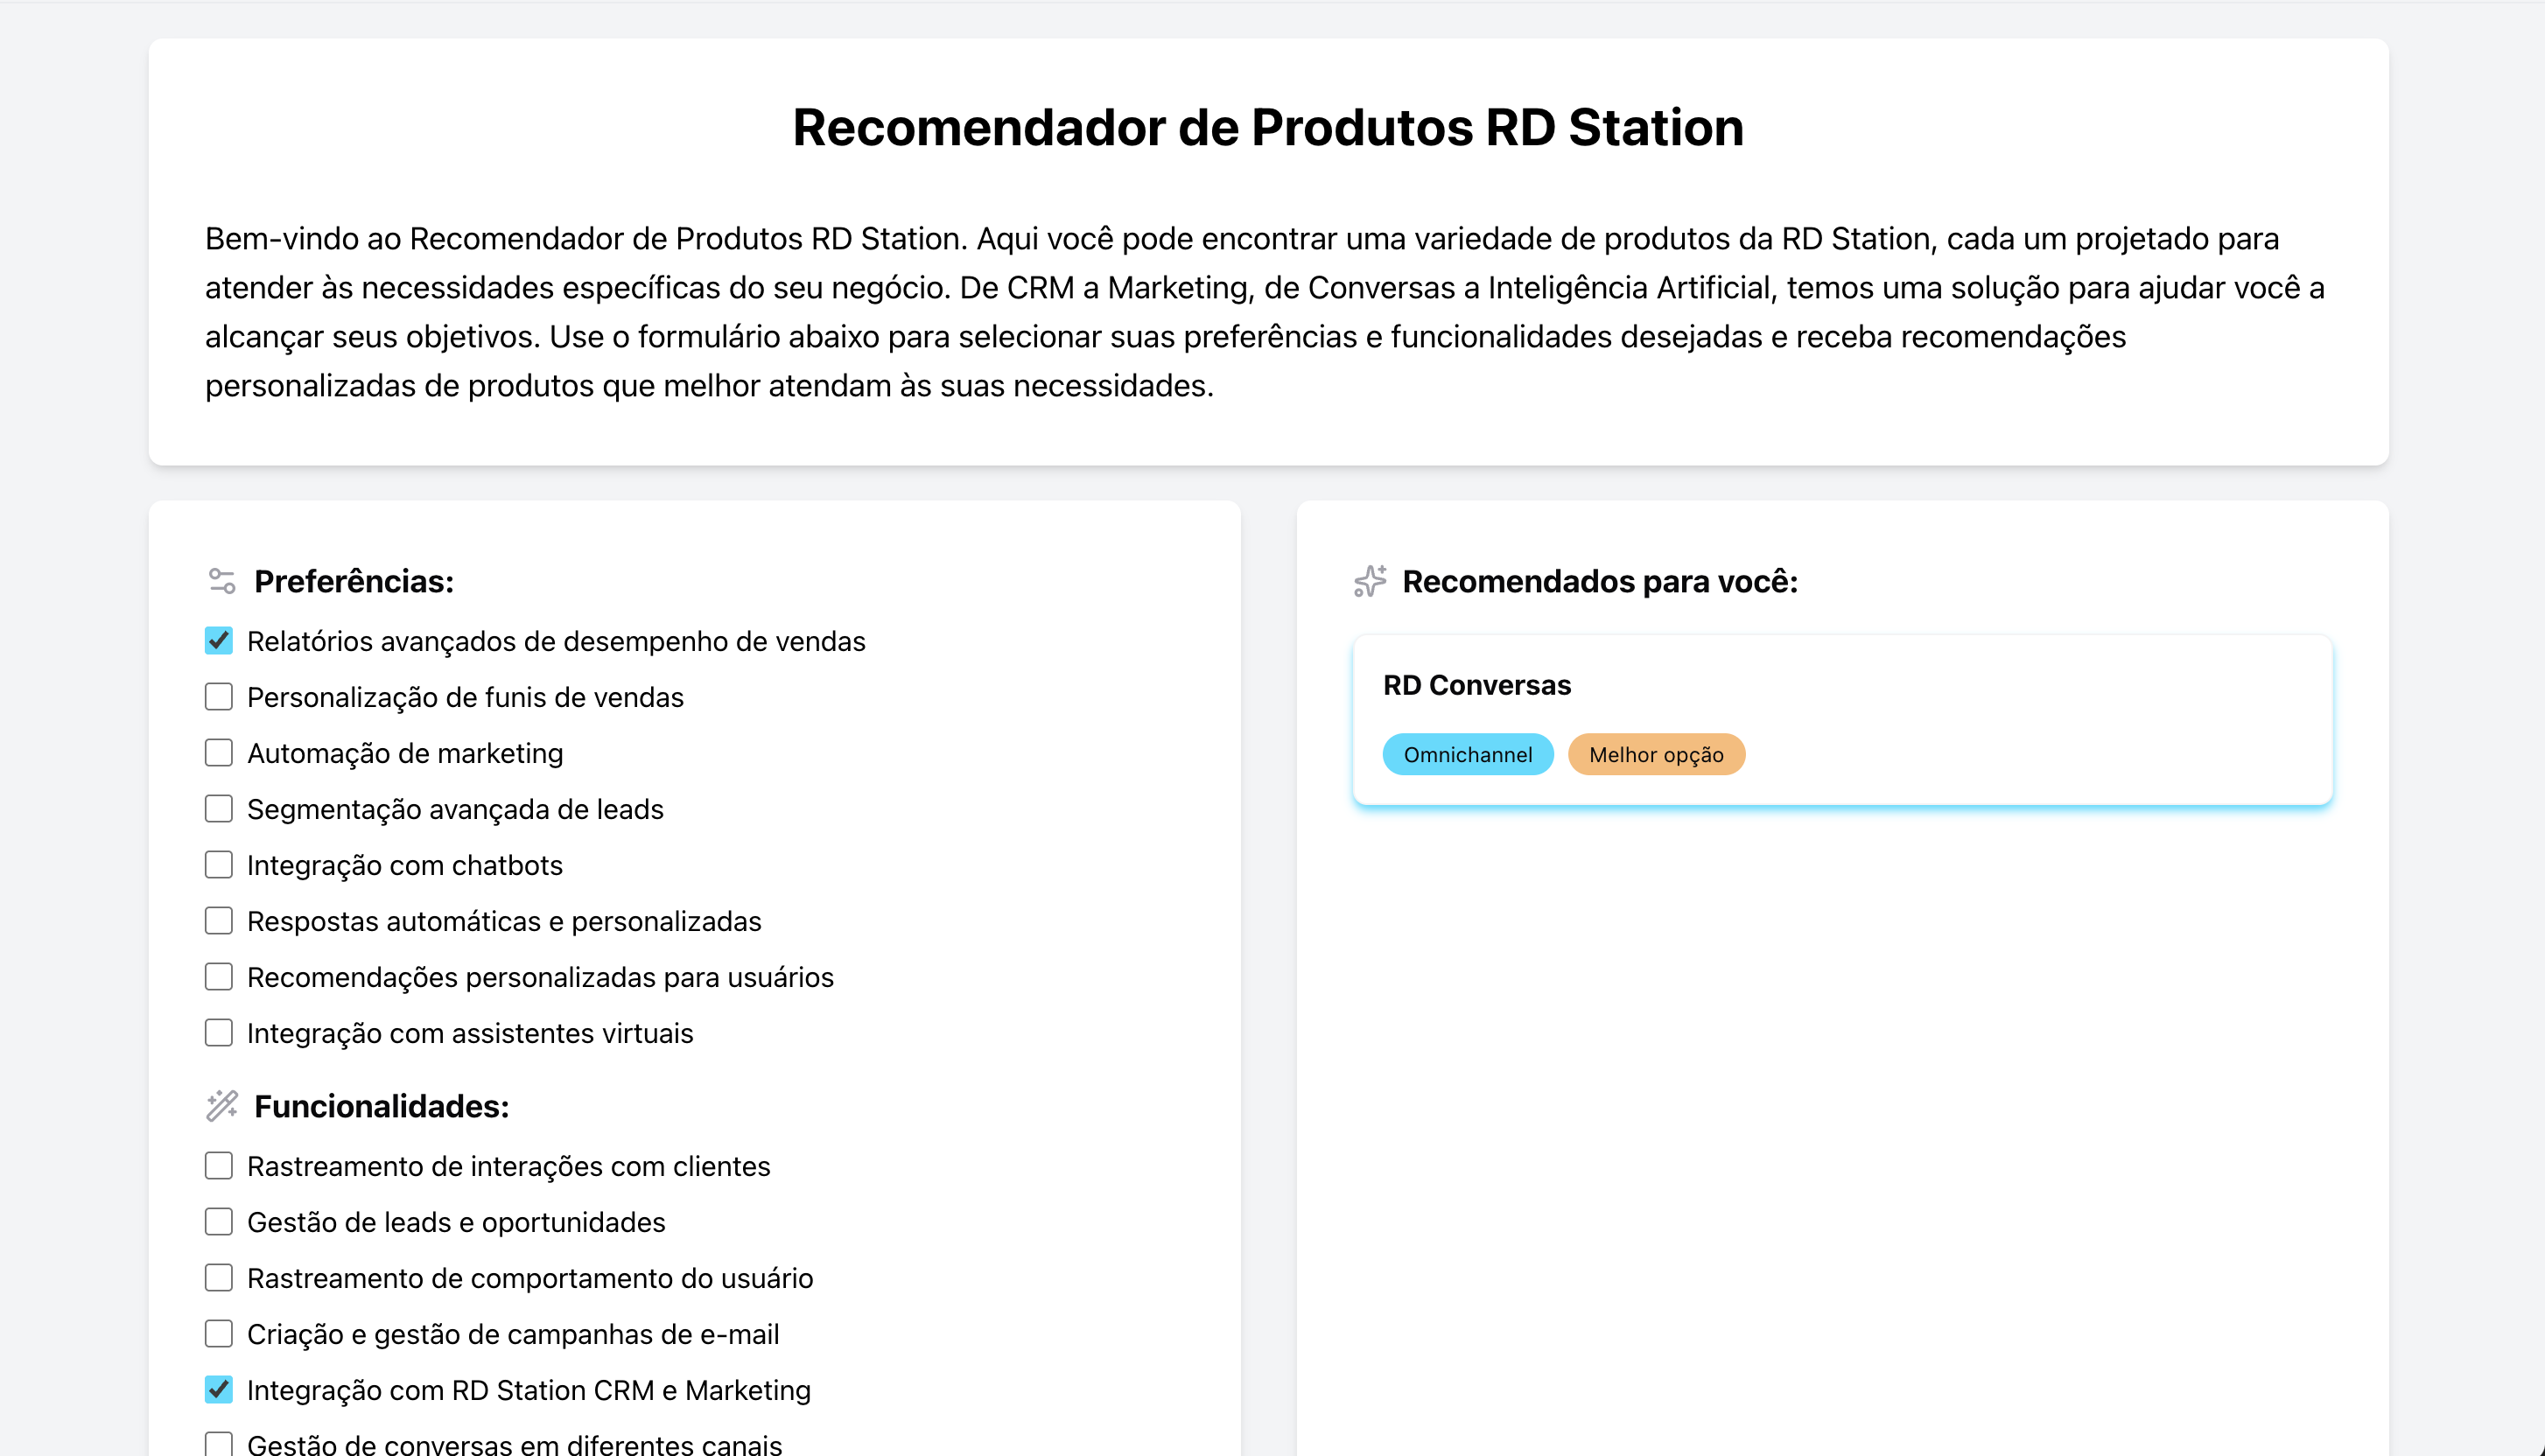
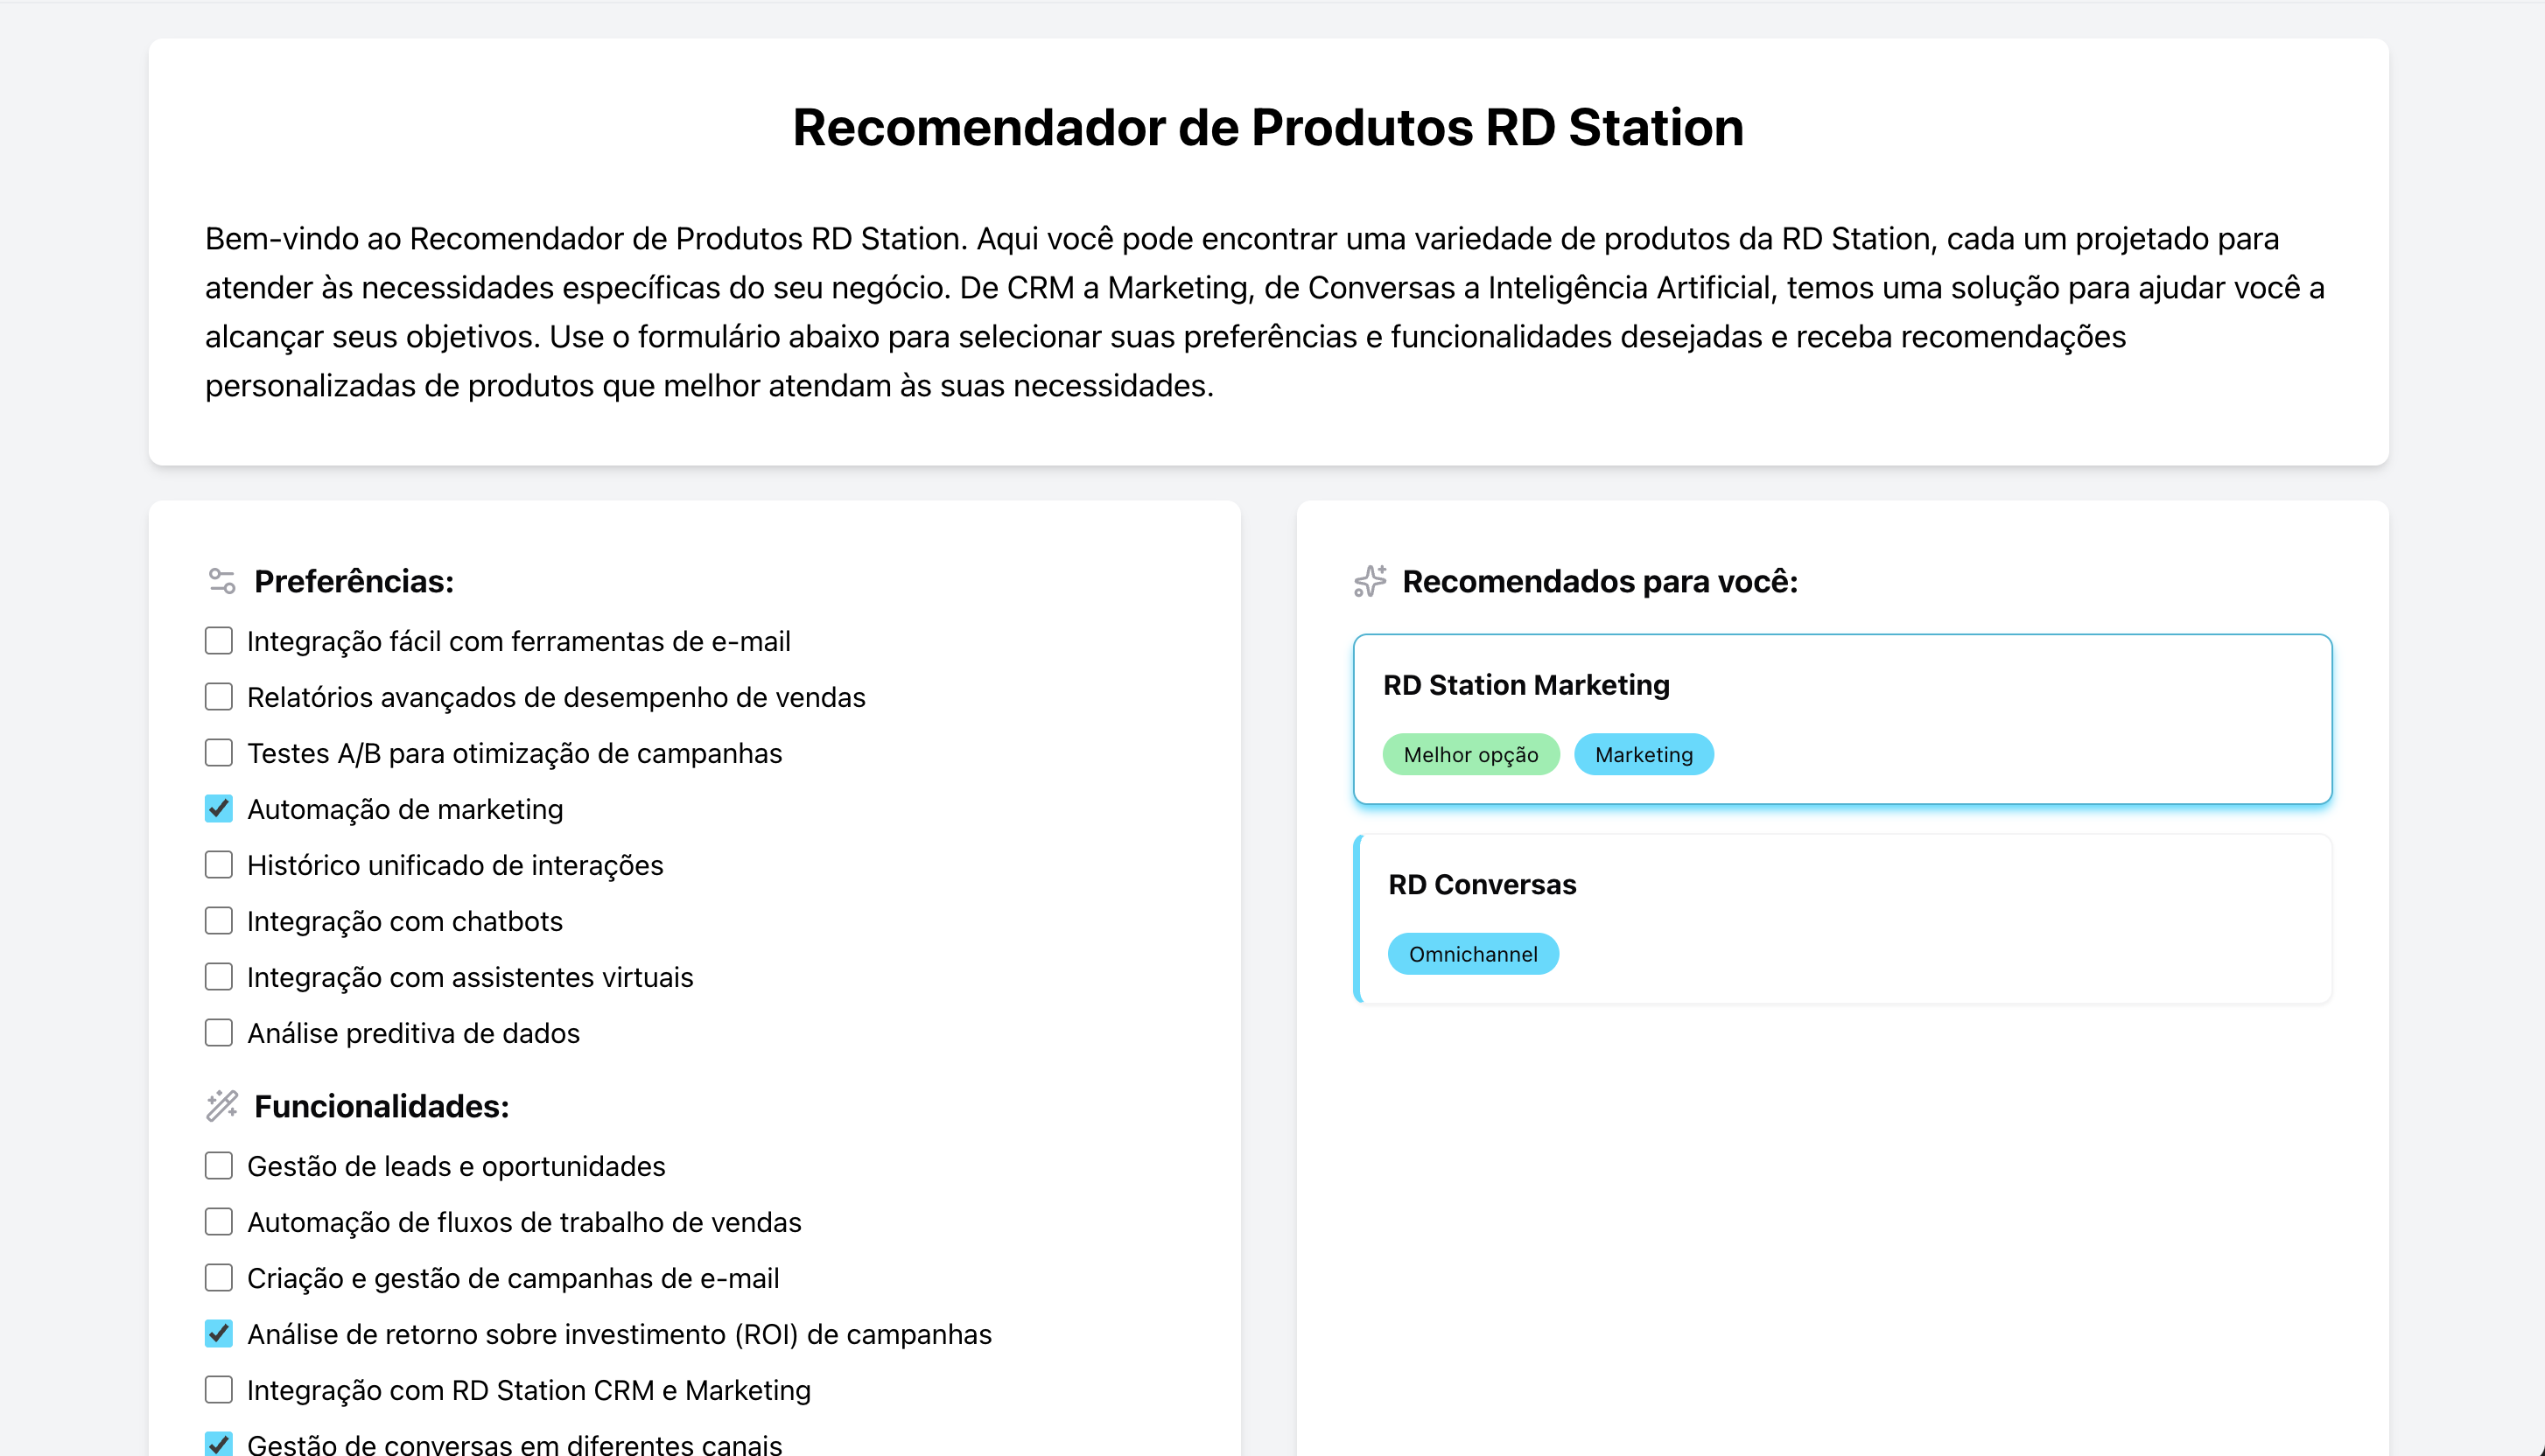
fix: ui highlighted recommendation card

diff --git a/frontend/src/components/RecommendationList/RecommendationItem.js b/frontend/src/components/RecommendationList/RecommendationItem.js
@@ -1,24 +1,33 @@
 import React from 'react';
+import { tv } from 'tailwind-variants';
 
-export function RecommendationItem({ recommendation, highlighted = false }) {
+const li = tv({
+  base: 'flex flex-col gap-4 bg-white rounded-lg p-4 border border-zinc-100 shadow-sm',
+  variants: {
+    color: {
+      default: 'border-l-4 border-l-primary',
+      highlighted: 'border-cyan-500 shadow-md shadow-primary',
+    },
+  },
+});
+
+export function RecommendationItem({ recommendation, variant = 'default' }) {
   return (
-    <li
-      className={`flex flex-col gap-4 bg-white rounded-lg p-4 border ${highlighted ? '' : 'border-l-4'} border-zinc-100 ${highlighted ? 'border-cyan-500' : 'border-l-primary'} ${highlighted ? 'shadow-md' : 'shadow-sm'} ${highlighted ? 'shadow-primary' : ''}`}
-    >
+    <li className={li({ color: variant })}>
       <header className="flex items-center justify-between">
         <h2 className="text-md font-bold text-zinc-950">
           {recommendation.name}
         </h2>
       </header>
       <footer className="flex flex-wrap gap-2">
-        <span className="py-1 px-3 text-xs text-zinc-950 bg-primary rounded-full">
-          {recommendation.category}
-        </span>
-        {highlighted ? (
-          <span className="py-1 px-3 text-xs text-zinc-950 bg-orange-300 rounded-full">
+        {variant === 'highlighted' ? (
+          <span className="py-1 px-3 text-xs text-zinc-950 bg-green-300 rounded-full">
             Melhor opção
           </span>
         ) : null}
+        <span className="py-1 px-3 text-xs text-zinc-950 bg-primary rounded-full">
+          {recommendation.category}
+        </span>
       </footer>
     </li>
   );

diff --git a/frontend/src/components/RecommendationList/RecommendationList.js b/frontend/src/components/RecommendationList/RecommendationList.js
@@ -24,7 +24,7 @@ function RecommendationList({ recommendations = [] }) {
           <RecommendationItem
             key={recommendation.id}
             recommendation={recommendation}
-            highlighted={index === 0}
+            variant={index === 0 ? "highlighted" : "default"}
           />
         ))}
       </ul>

diff --git a/README.md b/README.md
@@ -8,7 +8,6 @@
 
 ![](docs/assets/preview-1.png)
 ![](docs/assets/preview-2.png)
-![](docs/assets/preview-3.png)
 
 ## Descrição
 
@@ -84,19 +83,19 @@ Para completar este teste, você deve concentrar-se principalmente em três arqu
 1. Clone o repositório com o comando:
 
 ```sh
-$ git clone [email redacted]:ErickMachado/rd-recommender.git
+git clone [email redacted]:ErickMachado/rd-recommender.git
 ```
 
 2. Instale todas as dependências do projeto com:
 
 ```sh
-$ ./install.sh
+./install.sh
 ```
 
 3. Inicie simultâneamente o back e o front-end com:
 
 ```sh
-$ yarn dev
+yarn dev
 ```
 
 ### Scripts Disponíveis